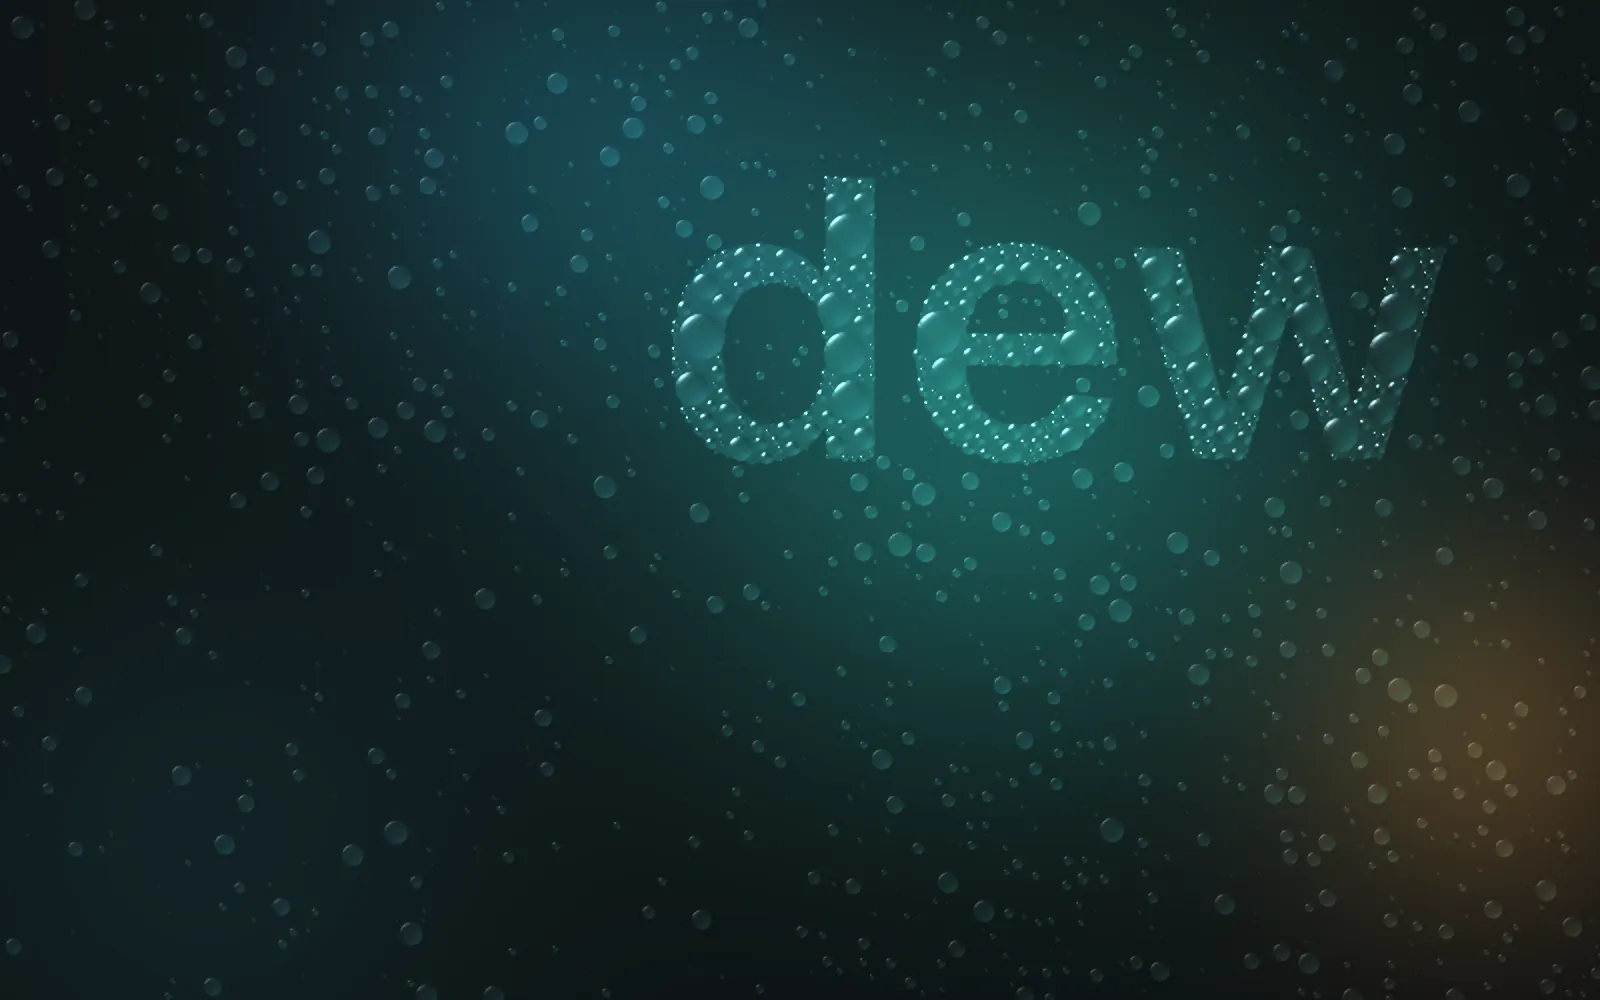
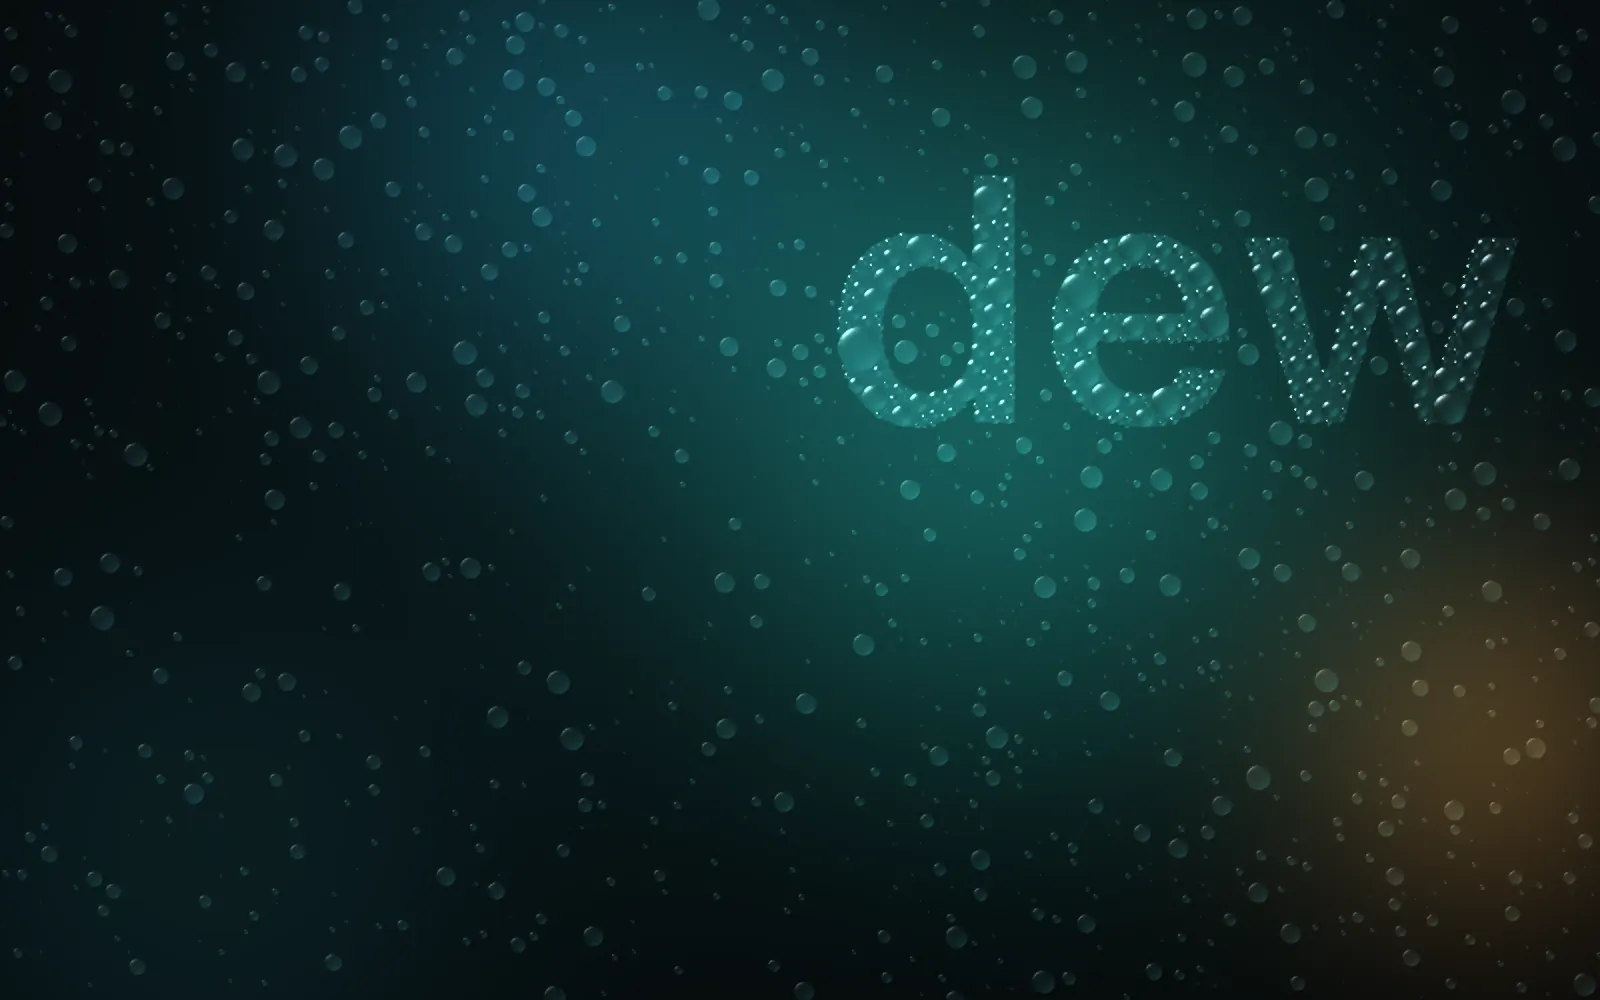
fix(site): the hero's "dew" sits in the room above the headline, at every width
Both heroes placed the word at fixed field fractions (centre 0.66, 0.68 of
the hero, half its width on a wide screen; 0.84-0.86 of the width on a
tall one). The copy is anchored to the bottom of the hero and its height
is set in rem, so how much room it leaves above depends on the viewport:
at 1440x900 the word's right edge ran almost to the screen edge while its
left sat over the headline's middle, and on a 390px phone it hugged the
headline and crowded the header's side margins.

src/hero/placement.ts measures the page instead: the room between the
header and the headline's top, and the copy's side margin. The word is
centred vertically in that room at up to 70% of its height; on a wide
screen it takes up to 44% of the width and ends at the copy's margin on
the right, mirroring the copy on the left; on a tall one it spans the
copy's column. The condensation's quiet box (where drops stay sparse so
the words read) is the copy's measured box too. The particles re-measure
when the canvas's size changes.

The still frames (public/hero/stills/, shown without WebGL2) are
recaptured with scripts/hero-stills.py against a build of this commit,
headless Chrome with --use-angle=vulkan --enable-gpu on the RTX 4080.

Checked in Chrome at 1440x900, 390x844, 1366x768, 844x390, 768x1024
and 2560x1080, dark and light, both heroes live: before/after
screenshots in ~/.cache/dew/verification-evidence/site-landing/
hero-{before,after}-{desktop,mobile}.png. tsc --strict on src/hero
[…]

diff --git a/site/src/hero/placement.ts b/site/src/hero/placement.ts
@@ -1,0 +1,49 @@
+// Where both heroes draw the word, measured from the page's own layout so the
+// word keeps its balance against the headline at every viewport: the copy sits
+// at the bottom of the hero (src/styles/landing.css), and its height against the
+// viewport's decides how much room is left above it.
+
+/** Field fractions, y measured up from the bottom as WebGL reads it. */
+export interface Placement {
+	/** Center of the word's box, and its width. */
+	cx: number;
+	cy: number;
+	width: number;
+	/** The box around the copy, where the condensation keeps drops sparse so the words read. */
+	quiet: [number, number, number, number];
+}
+
+// Height over width of "dew"'s ink box in the display face: from the top of the d
+// to the baseline, since the word has no descender. Only sizes the word to its room.
+const WORD_ASPECT = 0.4;
+// The word's share of the room between the header and the headline, and, on a wide
+// screen, of the hero's width: left over, the room is equal gaps above and below it.
+const ROOM_SHARE = 0.7;
+const WIDE_SHARE = 0.44;
+
+/**
+ * The word centred in the room between the header and the headline. On a tall
+ * screen it spans the copy's column from its left edge; on a wide one it takes
+ * the right of the hero and ends at the copy's margin, mirroring the copy on the left.
+ */
+export function placementFor(hero: HTMLElement): Placement {
+	const box = hero.getBoundingClientRect();
+	const w = Math.max(1, box.width);
+	const h = Math.max(1, box.height);
+	const copy = hero.querySelector('.hero-copy')!.getBoundingClientRect();
+	const headline = hero.querySelector('h1')!.getBoundingClientRect();
+	const header = document.querySelector('header.header')?.getBoundingClientRect().height ?? 0;
+	const margin = parseFloat(getComputedStyle(hero).paddingLeft) || 0;
+	const top = header;
+	const bottom = headline.top - box.top;
+	const fits = (ROOM_SHARE * Math.max(0, bottom - top)) / WORD_ASPECT;
+	const column = w - 2 * margin;
+	const width = w < h ? Math.min(column, fits) : Math.min(WIDE_SHARE * w, column, fits);
+	const cx = w < h ? margin + width / 2 : w - margin - width / 2;
+	return {
+		cx: cx / w,
+		cy: 1 - (top + bottom) / 2 / h,
+		width: width / w,
+		quiet: [0, 0, Math.min(1, (copy.right - box.left + margin) / w), Math.min(1, (box.bottom - copy.top + margin) / h)],
+	};
+}

diff --git a/site/src/hero/condensation.ts b/site/src/hero/condensation.ts
@@ -24,6 +24,7 @@ import {
 	runLoop,
 	type Target,
 } from './gl';
+import { placementFor, type Placement } from './placement';
 
 const DURATION = 2.9; // seconds from t = 1 to t = 0 at the base rate; pixels run 0.62 to 2.1 times as fast
 const SLOWEST = 0.62; // the slowest pixel's rate, relative to the base rate
@@ -182,20 +183,6 @@ function random(seed: number): () => number {
 	};
 }
 
-interface Layout {
-	/** Center of the wordmark and its width, as fractions of the field. */
-	cx: number;
-	cy: number;
-	width: number;
-	/** A box, in field fractions, where drops stay sparse so the copy reads. */
-	quiet: [number, number, number, number];
-}
-
-function layoutFor(width: number, height: number): Layout {
-	if (width < height) return { cx: 0.5, cy: 0.66, width: 0.86, quiet: [0, 0, 1, 0.5] };
-	return { cx: 0.66, cy: 0.68, width: 0.5, quiet: [0, 0, 0.52, 0.56] };
-}
-
 /** Distance from each inside pixel to the nearest outside pixel (a 3-4 chamfer transform). */
 function insideDistance(mask: Uint8Array, w: number, h: number): Float32Array {
 	const big = 1e6;
@@ -232,9 +219,8 @@ interface Drop {
  * `word` and scattered thinly over the rest of the pane. Rows run bottom to top,
  * as WebGL reads them.
  */
-function dropField(w: number, h: number, word: string, family: string, seed: number): Float32Array {
+function dropField(w: number, h: number, word: string, family: string, seed: number, layout: Placement): Float32Array {
 	const rand = random(seed);
-	const layout = layoutFor(w, h);
 
 	const canvas = document.createElement('canvas');
 	canvas.width = w;
@@ -457,7 +443,7 @@ export function startCondensation(hero: HTMLElement, canvas: HTMLCanvasElement, 
 			format: gl.RG,
 			type: gl.FLOAT,
 			filter: gl.LINEAR,
-			data: dropField(w, h, word, family, seed),
+			data: dropField(w, h, word, family, seed, placementFor(hero)),
 		});
 		fieldX = createTarget(gl, w, h);
 		const tw = Math.ceil(w / TIME_SCALE);

diff --git a/site/src/hero/particles.ts b/site/src/hero/particles.ts
@@ -8,6 +8,7 @@
 // puts noise back into the particles it passes, and the network brings them home.
 
 import { FULLSCREEN_VERTEX, createContext, createProgram, fitCanvas, prefersReducedMotion, runLoop, type Program } from './gl';
+import { placementFor, type Placement } from './placement';
 
 export interface Manifest {
 	layers: { name: string; in: number; out: number }[];
@@ -250,11 +251,6 @@ export interface ParticleField {
 	resample(): void;
 }
 
-function placementFor(width: number, height: number): { cx: number; cy: number; width: number } {
-	if (width < height) return { cx: 0.5, cy: 0.66, width: 0.84 };
-	return { cx: 0.66, cy: 0.68, width: 0.5 };
-}
-
 /**
  * Run the particle model on `canvas`. Returns null when the browser lacks
  * WebGL2 with float render targets; the page then shows its still frame.
@@ -365,8 +361,16 @@ export function startParticles(
 		current = 1 - current;
 	};
 
+	// The word's place follows the page's layout, so it is measured again only when the canvas's size changes.
+	let placement: Placement | null = null;
+	let placedAt = '';
 	const view = () => {
-		const { cx, cy, width } = placementFor(canvas.clientWidth, canvas.clientHeight);
+		const size = `${canvas.clientWidth}x${canvas.clientHeight}`;
+		if (!placement || size !== placedAt) {
+			placement = placementFor(hero);
+			placedAt = size;
+		}
+		const { cx, cy, width } = placement;
 		const scaleX = (width * 2) / 3.6; // the word spans x in [-1.8, 1.8] of model space
 		const scaleY = (scaleX * canvas.clientWidth) / Math.max(1, canvas.clientHeight);
 		return [scaleX, scaleY, cx * 2 - 1, cy * 2 - 1] as const;
